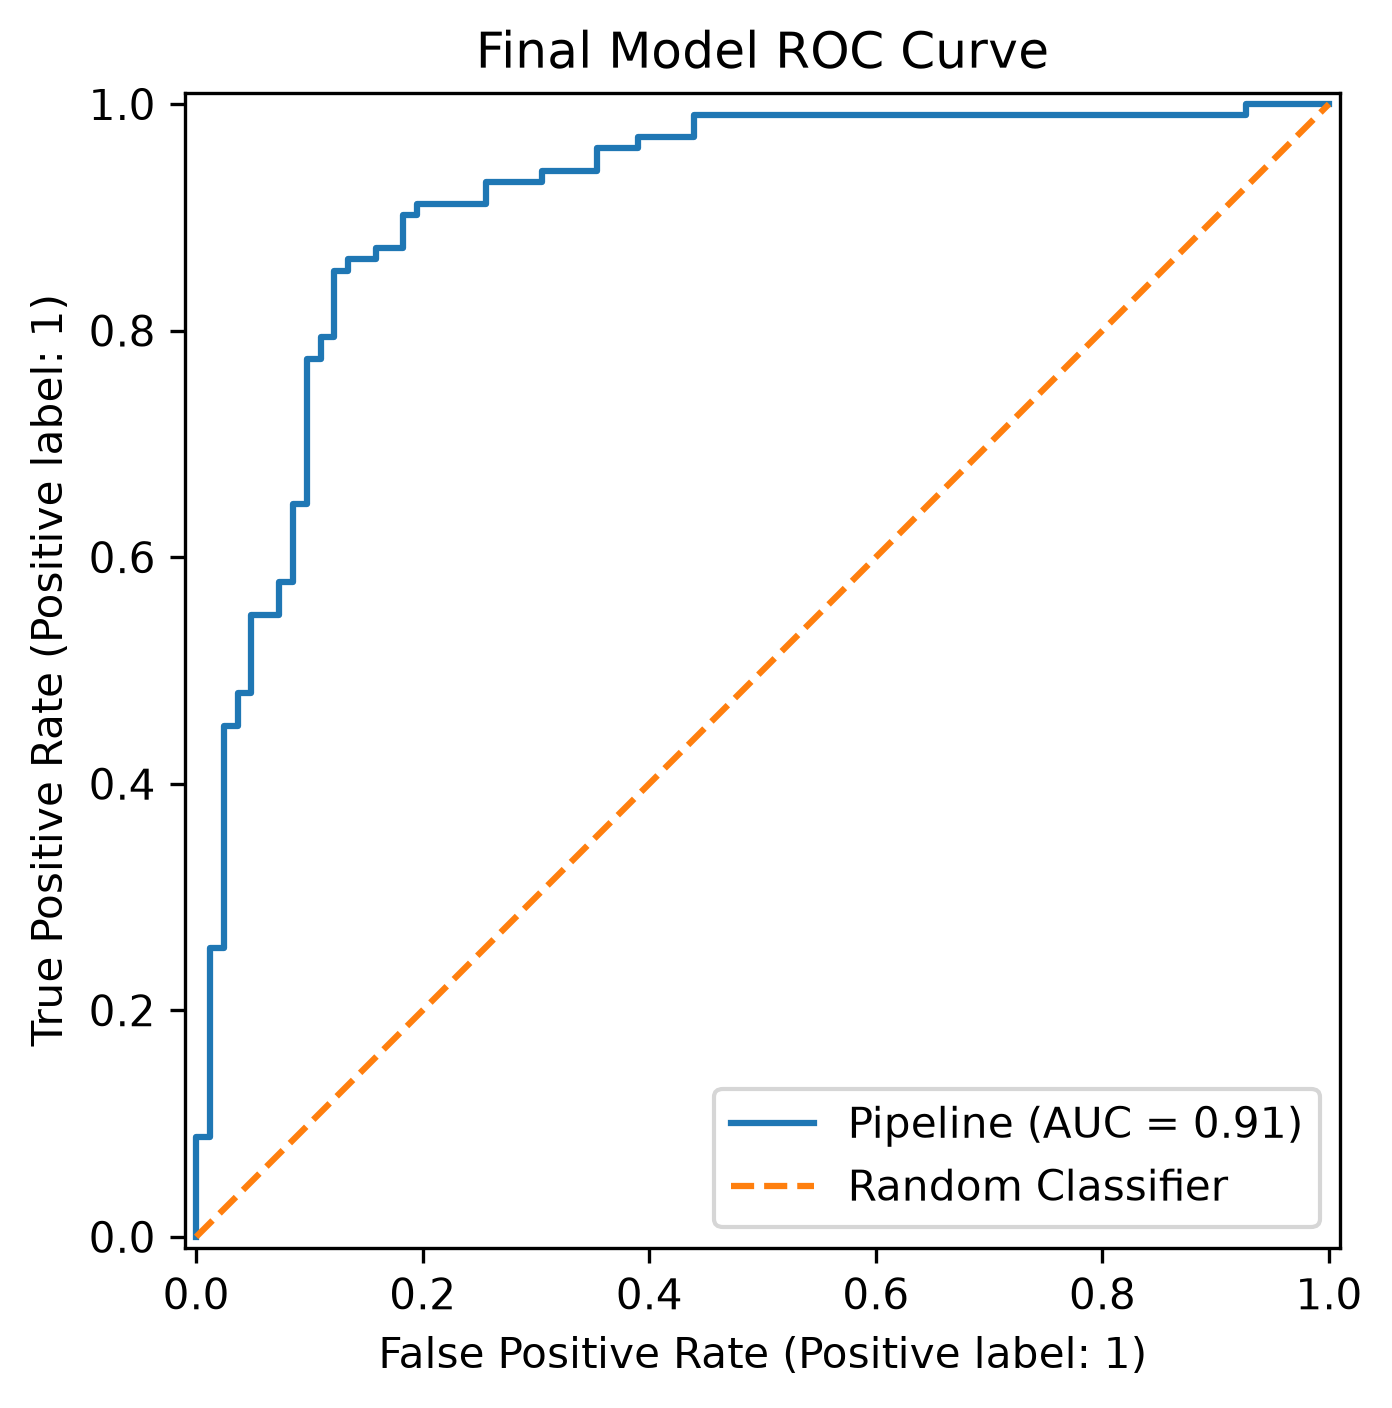
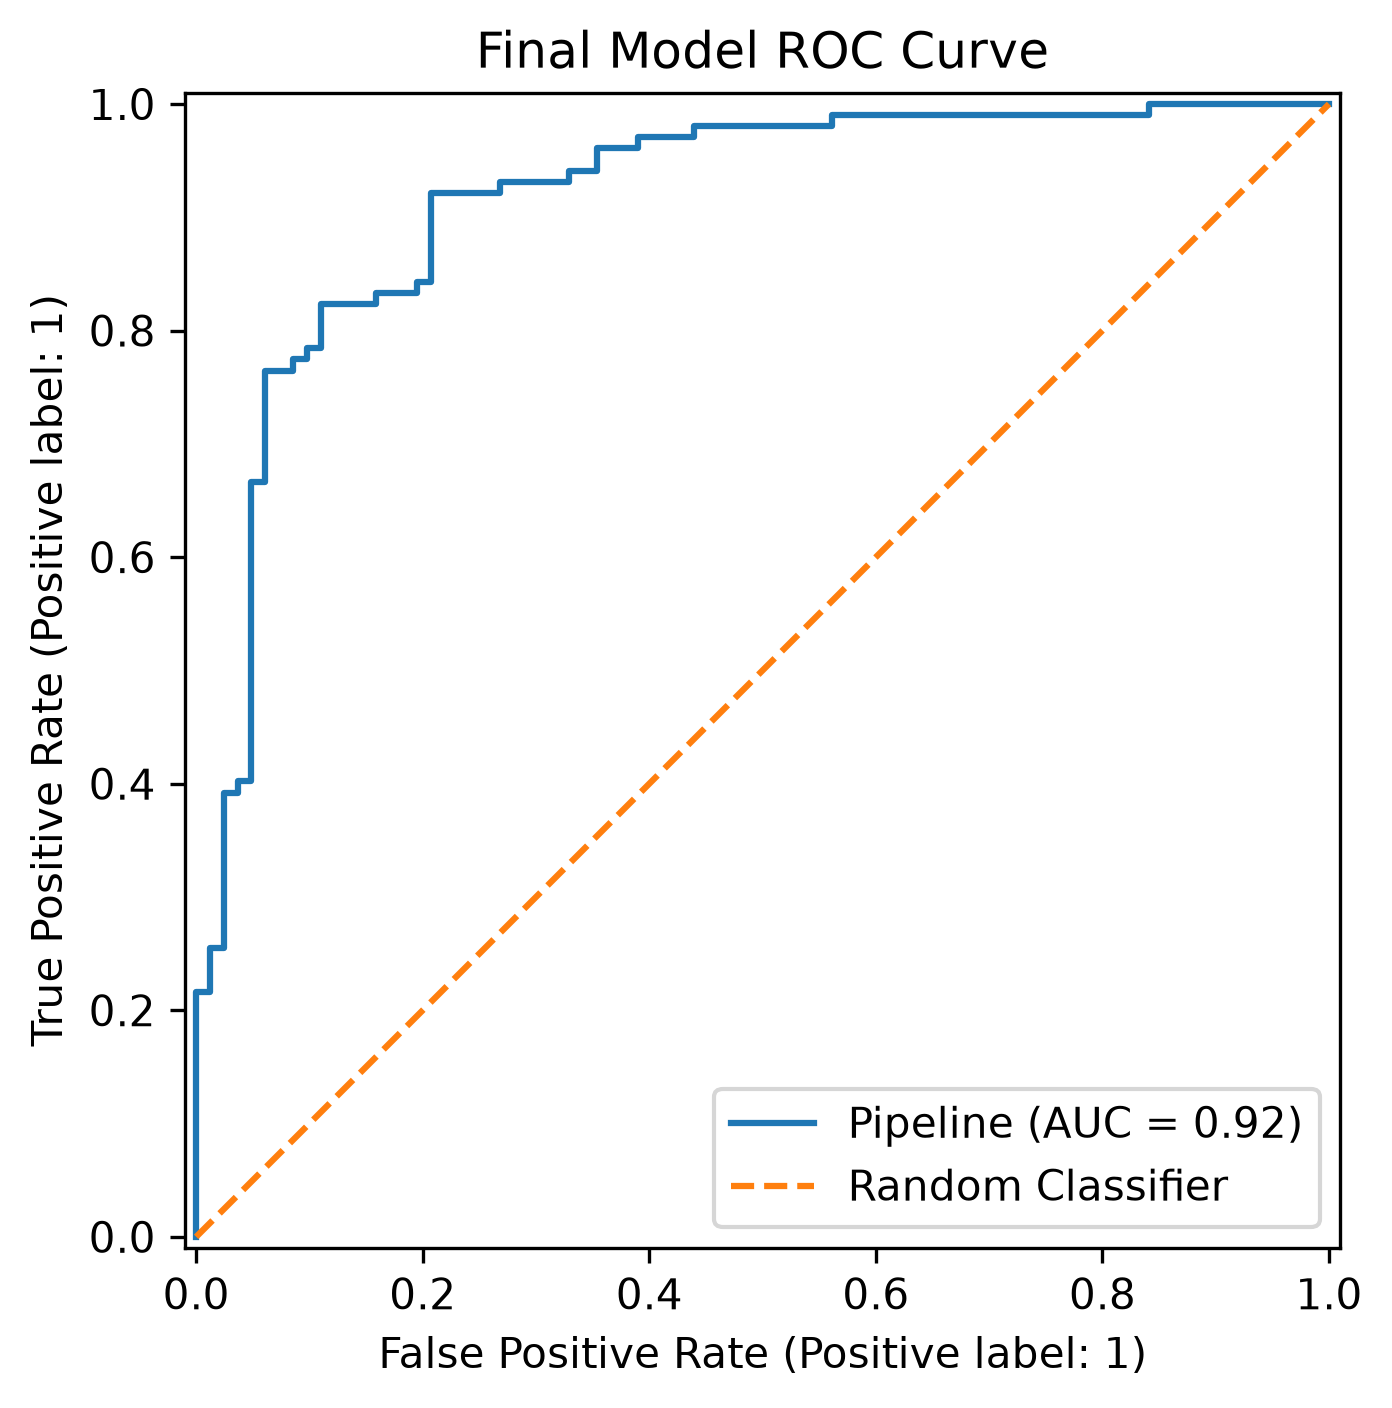
BioInsight-AI v2.0 Completed

diff --git a/src/train.py b/src/train.py
@@ -4,6 +4,7 @@ import joblib
 import matplotlib.pyplot as plt
 import pandas as pd
 
+from xgboost import XGBClassifier
 from sklearn.compose import ColumnTransformer
 from sklearn.ensemble import RandomForestClassifier
 from sklearn.impute import SimpleImputer
@@ -233,10 +234,12 @@ def build_models():
                 (
                     "model",
                     RandomForestClassifier(
-                        n_estimators=500,
-                        max_depth=8,
-                        min_samples_split=4,
-                        min_samples_leaf=2,
+                        n_estimators=1000,
+                        max_depth=None,
+                        min_samples_split=2,
+                        min_samples_leaf=1,
+                        max_features="sqrt",
+                        bootstrap=True,
                         class_weight="balanced",
                         random_state=42,
                     )
@@ -259,6 +262,27 @@ def build_models():
                         probability=True,
                         random_state=42,
                     )
+                ),
+            ]
+        ),
+    
+        "XGBoost": Pipeline(
+            steps=[
+                (
+                    "preprocessor",
+                    build_preprocessor(),
+                ),
+                (
+                    "model",
+                    XGBClassifier(
+                        n_estimators=300,
+                        learning_rate=0.05,
+                        max_depth=4,
+                        subsample=0.8,
+                        colsample_bytree=0.8,
+                        eval_metric="logloss",
+                        random_state=42,
+                    ),
                 ),
             ]
         ),
@@ -375,13 +399,26 @@ def train_selected_model(
 
     elif best_model_name == "Support Vector Machine":
         param_grid = {
-            "model__C": [0.1, 1, 2, 5, 10],
-            "model__kernel": ["linear", "rbf"],
-            "model__gamma": ["scale", "auto"],
+            "model__C": [0.01, 0.1, 1, 2, 5, 10, 20, 50],
+            "model__kernel": ["rbf"],
+            "model__gamma": [
+                "scale",
+                "auto",
+                0.001,
+                0.01,
+                0.1,
+            ],
         }
-
+    elif best_model_name == "XGBoost":
+        param_grid = {
+            "model__n_estimators": [200, 300, 500],
+            "model__max_depth": [3, 4, 5],
+            "model__learning_rate": [0.01, 0.05, 0.1],
+            "model__subsample": [0.8, 1.0],
+            "model__colsample_bytree": [0.8, 1.0],
+        }
     cv = StratifiedKFold(
-        n_splits=10,
+        n_splits=15,
         shuffle=True,
         random_state=42,
     )
@@ -389,7 +426,7 @@ def train_selected_model(
     search = GridSearchCV(
         estimator=pipeline,
         param_grid=param_grid,
-        scoring="accuracy",
+        scoring="roc_auc",
         cv=cv,
         n_jobs=-1,
         verbose=2,
@@ -400,7 +437,7 @@ def train_selected_model(
     print("\nBest Parameters:")
     print(search.best_params_)
 
-    print(f"\nBest CV Accuracy: {search.best_score_:.4f}")
+    print(f"\nBest CV ROC-AUC: {search.best_score_:.4f}")
 
     return search.best_estimator_
 

diff --git a/src/explain.py b/src/explain.py
@@ -391,6 +391,45 @@ def create_shap_explainer(
 # ==================================================
 # GLOBAL SHAP ANALYSIS
 # ==================================================
+def clean_feature_name(feature_name):
+
+    feature_name = feature_name.replace(
+        "numerical__",
+        "",
+    )
+
+    feature_name = feature_name.replace(
+        "categorical__",
+        "",
+    )
+
+    feature_name = feature_name.replace(
+        "_",
+        " ",
+    )
+
+    feature_name = feature_name.title()
+
+    replacements = {
+        "Cp": "Chest Pain",
+        "Trestbps": "Resting Blood Pressure",
+        "Chol": "Cholesterol",
+        "Thalach": "Maximum Heart Rate",
+        "Oldpeak": "ST Depression",
+        "Ca": "Number Of Major Vessels",
+        "Thal": "Thalassemia",
+        "Exang": "Exercise Induced Angina",
+        "Fbs": "Fasting Blood Sugar",
+        "Restecg": "Resting ECG",
+        "Slope": "ST Slope",
+        "Sex Male": "Sex (Male)",
+        "Sex Female": "Sex (Female)",
+    }
+
+    return replacements.get(
+        feature_name,
+        feature_name,
+    )
 
 def create_global_shap_analysis(
     explainer,
@@ -411,7 +450,10 @@ def create_global_shap_analysis(
 
     shap_importance_df = pd.DataFrame(
         {
-            "feature": X_test_transformed.columns,
+            "feature": [
+                clean_feature_name(feature)
+                for feature in X_test_transformed.columns
+            ],
             "mean_absolute_shap": mean_absolute_shap,
         }
     )

diff --git a/app/app.py b/app/app.py
@@ -128,27 +128,28 @@ div[data-baseweb="notification"]{
 with st.sidebar:
 
     st.markdown("# 🧬 BioInsight-AI")
-    st.caption("Version 1.0")
+    st.caption("Version 2.0")
 
     st.divider()
 
     st.subheader("🧠 AI Engine")
 
-    st.success("✅ Logistic Regression")
+    st.success("✅ Support Vector Machine")
     st.success("✅ SHAP Explainability")
 
+    
     st.metric(
         label="Model Accuracy",
-        value="86.9%"
+        value="87%"
     )
 
     st.metric(
         label="Dataset Size",
-        value="303 Patients"
+        value="920 Patients"
     )
     st.sidebar.markdown("---")
 
-    st.sidebar.success("✅ AI Engine Ready")
+    st.sidebar.success("✅ ✓ AI Model Validated")
 
     st.sidebar.markdown(
     """
@@ -165,7 +166,22 @@ with st.sidebar:
 
     ---
     ⚠️ Educational & Research Use Only.
+
+    ---
+
+    - BioInsight-AI v-2.0
+    - Developed by - M Ajay Kumar & Amogh Amarapur
+
+    ---
+
+    **Built with**
+    - Python
+    - Scikit-Learn
+    - SHAP
+    - Plotly
+    - Streamlit
     """
+    
     )
 
 # ==================================================
@@ -652,25 +668,25 @@ col1, col2, col3, col4 = st.columns(4)
 with col1:
     st.metric(
     "Model",
-    "Logistic"
+    "SVM"
 )
 
 with col2:
     st.metric(
         "Accuracy",
-        "86.9%"
+        "87%"
     )
 
 with col3:
     st.metric(
         "Dataset",
-        "303 Patients"
+        "920 Patients"
     )
 
 with col4:
     st.metric(
-        "Explainability",
-        "SHAP AI"
+        "ROC-AUC",
+        "91.7%"
     )
 
 st.info(
@@ -693,8 +709,8 @@ st.divider()
 if engine_ready:
 
     st.success(
-        "AI prediction and explainability engine "
-        "loaded successfully."
+        "Support Vector Machine model loaded successfully. "
+        " SHAP Explainability initialized."
     )
 
 else:
@@ -1916,6 +1932,6 @@ Developed by **M Ajay Kumar** & **Amogh Amarapur**
 
 ⚠ This application is **not** intended to replace professional medical diagnosis.
 
-Version **1.0**
+Version **2.0**
 """
 )